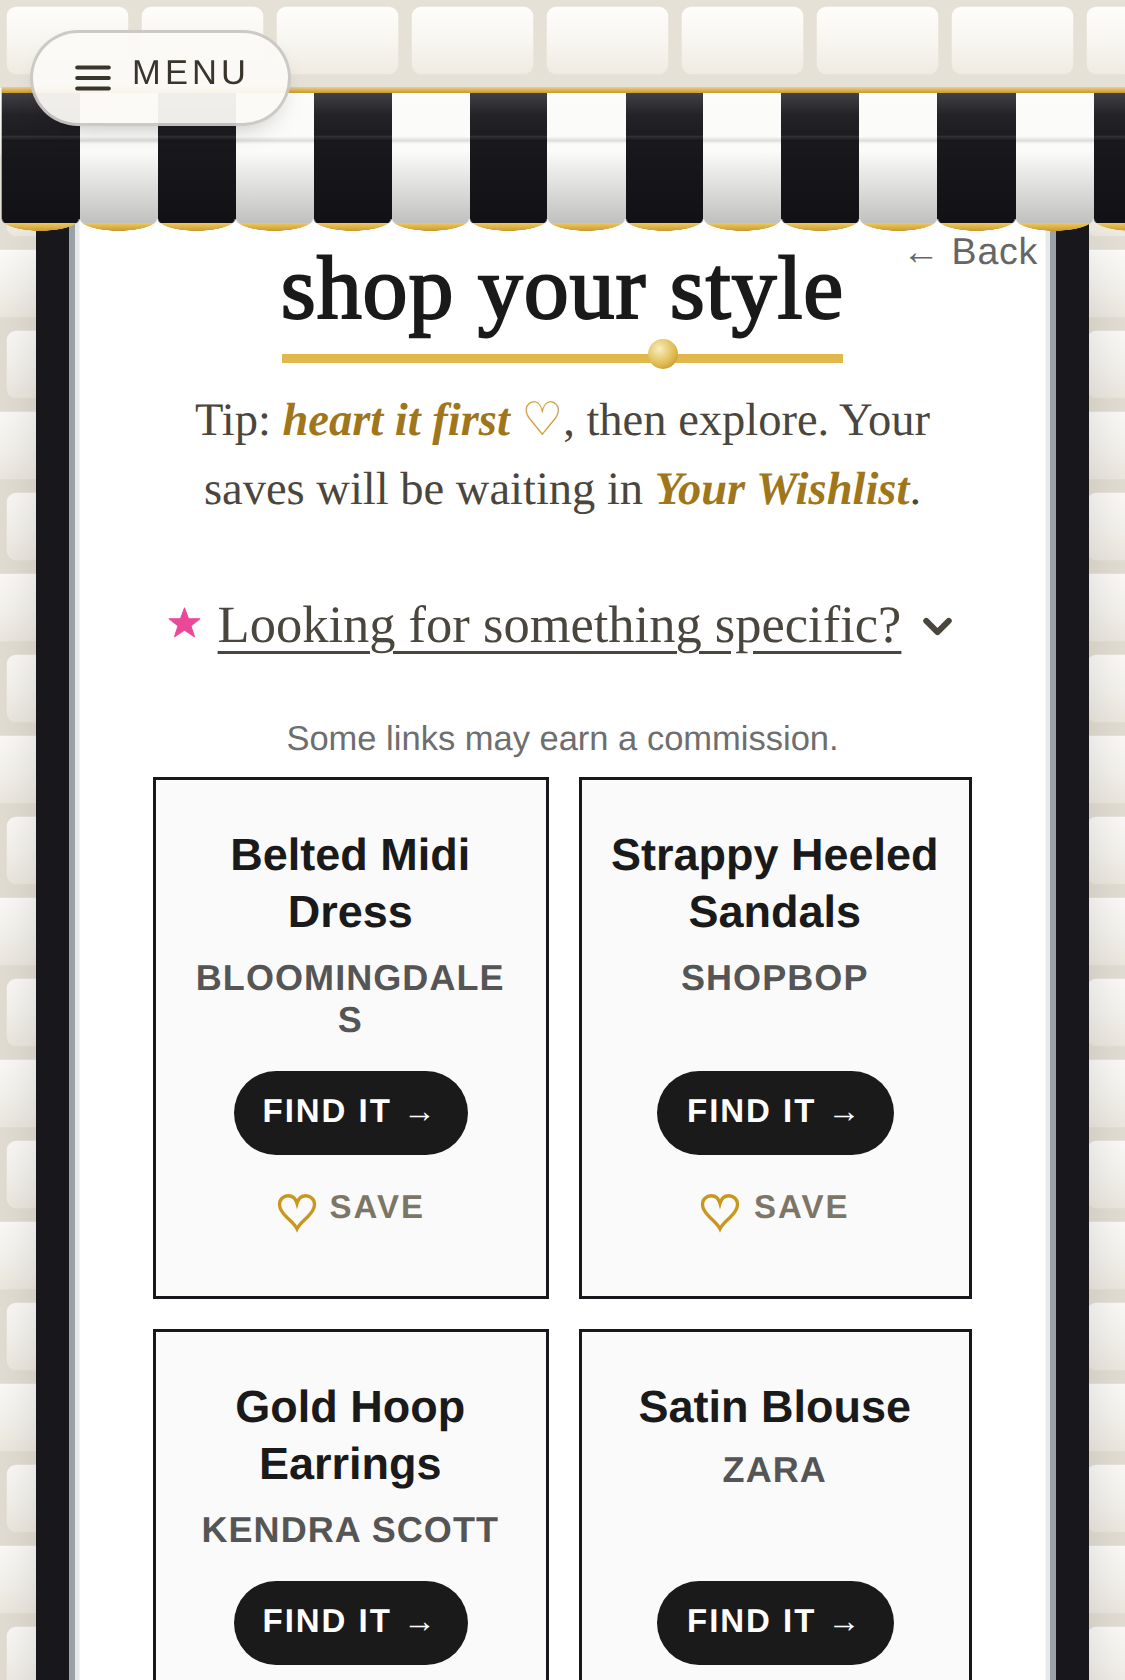
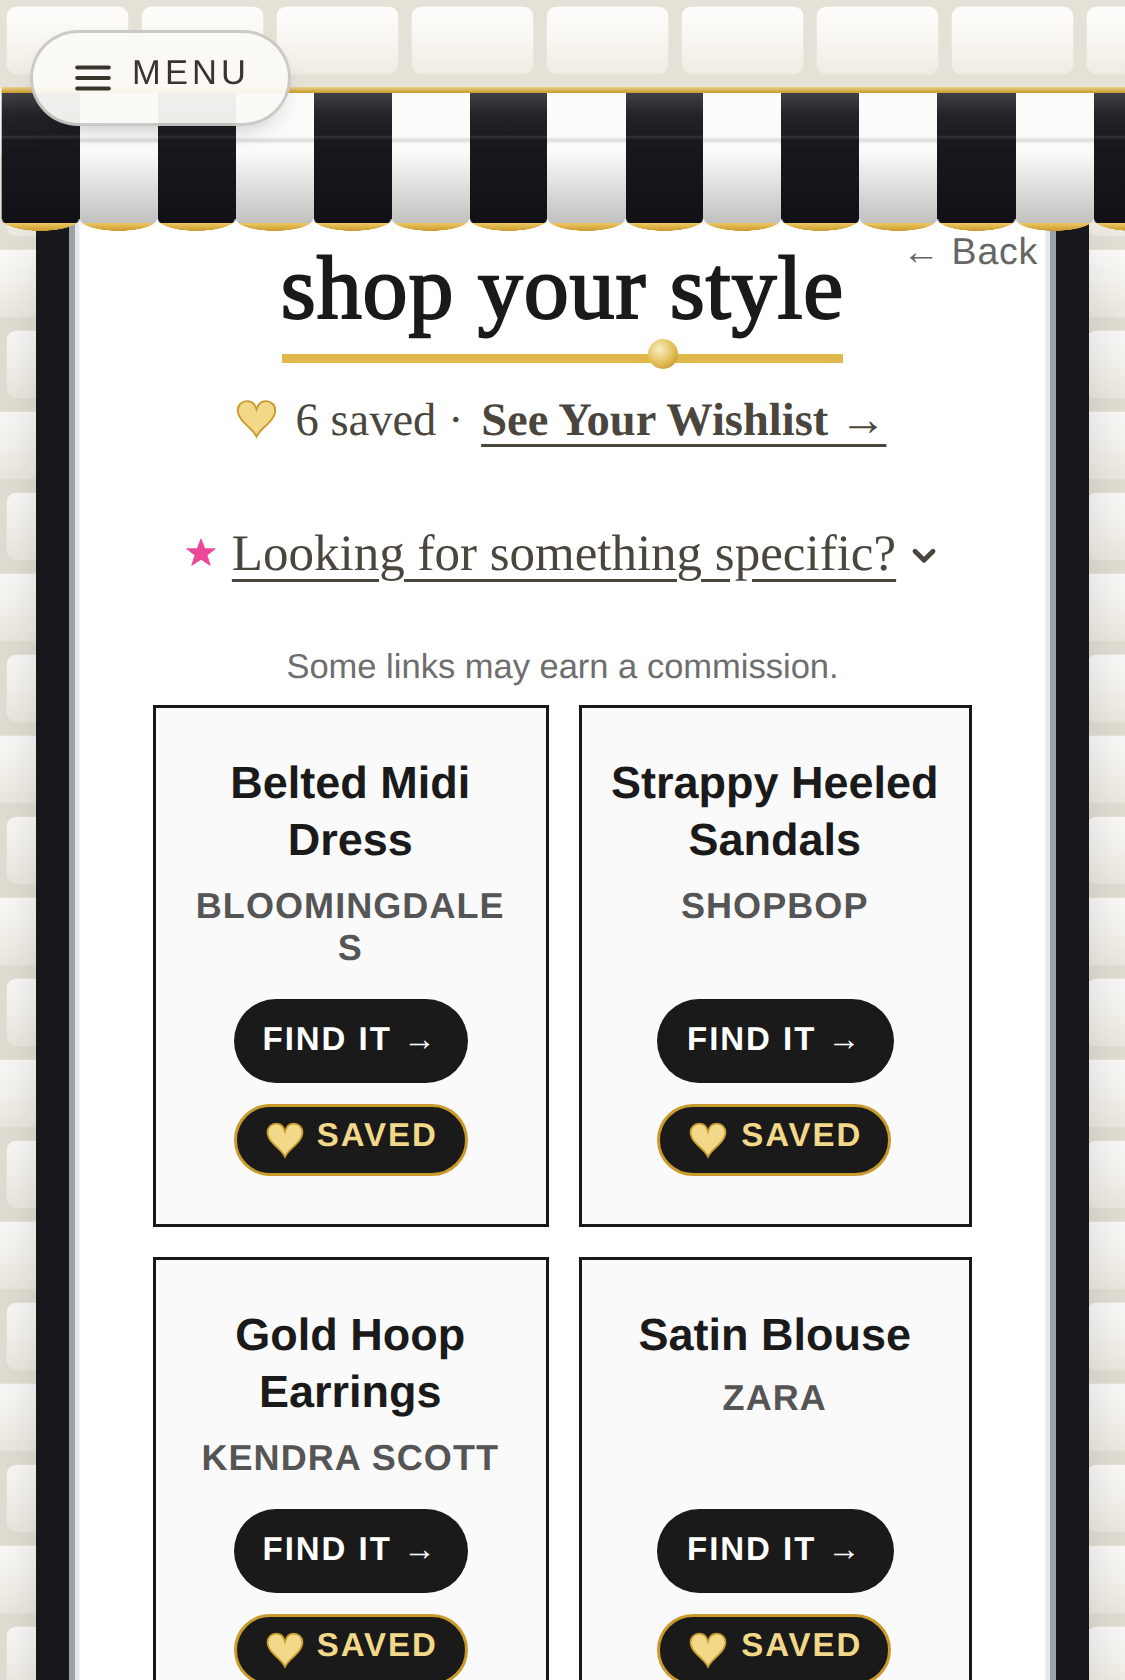
Shop your style: nothing asks her to act while the star is spinning (#906)
HER CALL off her own live test, and it is the same reasoning one step further
than this morning's disclosure fix. Her words: "she should just wait to see her
options during spinning star and not be tempted to click out of it at this
moment."

▶ THE WISHLIST DOOR WAS THE WORST OF THE THREE TO LEAVE STANDING, and that is
  the product point rather than a tidiness one: a notice and a tip are inert,
  but a DOOR is a way OUT, offered at the one moment she is waiting for the
  payoff. A tip is also simply wrong there -- "save it first, then explore" is
  advice about cards that are not on the screen yet.

⚠ THE CODE ALREADY AGREED AND THE MISS WAS MINE: _shopStyleGen has always
   hidden #ssAsk while thinking, for exactly this reason. The disclosure was
   brought into line this morning and its two neighbours were left behind. All
   four now stand down together and all four return the moment the pieces land.

Scoped #s-shopstyle, so Complete the Look's own copy of the tip is untouched.

wldoortest 45 -> 55. The new section asserts the spinner REALLY IS on screen
before measuring, or "nothing is showing" passes for the wrong reason, and then
asserts each of the four comes back once the six have landed.

ALSO: suite run logs are untracked now (scratchpad/out-*.txt). They are
regenerated on every run and a half-written one is worse than none -- it shows
zero failure marks while proving nothing, the false green this project already
[…]

Changed region(s): [[0.1556, 0.2167, 0.8711, 1.0], [0.1244, 0.4333, 0.1556, 0.4643]]

diff --git a/scratchpad/wldoortest.js b/scratchpad/wldoortest.js
@@ -147,5 +147,49 @@ for(const w of [430,393,375,360,320]){
   ok('no JS errors',errs.length===0,errs.join('|'));
   await ctx.close();
 }
+console.log('\n5. Nothing asks her to act while the star is spinning');
+{
+  const ctx=await b.newContext({viewport:{width:375,height:1000},deviceScaleFactor:3});
+  const pg=await ctx.newPage();
+  await pg.route('**/fonts.googleapis.com/**',r=>r.fulfill({status:200,contentType:'text/css',body:GF}));
+  const errs=[];pg.on('pageerror',e=>errs.push(e.message));
+  // a SLOW reply, so the spinner is genuinely on screen to be measured
+  await pg.addInitScript(picks=>{
+    localStorage.setItem('ss_data',JSON.stringify({userName:'Catherine',answers:[8,7,6,5,9,4,7,6,8,5,7,6],
+      topArchNames:['Modern Glam'],portrait:'P.',motto:'P.'}));
+    localStorage.setItem('ss_prefs',JSON.stringify({sizes:{},colorsLove:[],neverWear:[],neverPatterns:[],neverOther:''}));
+    const of=window.fetch;window.fetch=function(u){if(String(u).indexOf('style-ai')>=0){
+      return new Promise(r=>setTimeout(()=>r(new Response(JSON.stringify({content:[{type:'text',text:JSON.stringify({items:picks})}]}),{status:200,headers:{'Content-Type':'application/json'}})),4000));}
+      if(String(u).indexOf('user-data')>=0)return Promise.resolve(new Response('{}',{status:200}));
+      return of.apply(this,arguments);};},PICKS);
+  await pg.goto('http://localhost:8951/',{waitUntil:'domcontentloaded'});
+  await pg.waitForTimeout(2300);
+  await pg.evaluate(()=>{_shopStyleMode='quiz';_openShopStyleNow('quiz');});
+  await pg.waitForTimeout(1200);
+  const s1=await pg.evaluate(()=>{
+    const q=s=>document.querySelector('#s-shopstyle '+s);
+    const v=e=>!!(e&&e.offsetHeight>0);
+    return {thinking:document.getElementById('s-shopstyle').classList.contains('thinking'),
+      tip:v(q('[data-hearttip]')),door:v(q('[data-wldoor]')),
+      disc:v(q('.ss-disc-top')),ask:v(q('#ssAsk'))};});
+  ok('the spinner really is on screen',s1.thinking);
+  ok('the TIP stands down',!s1.tip);
+  ok('the WISHLIST DOOR stands down -- no way OUT while she waits',!s1.door);
+  ok('the commission notice stands down',!s1.disc);
+  ok('the ask box stands down (as it always has)',!s1.ask);
+  await pg.waitForTimeout(4200);
+  const s2=await pg.evaluate(()=>{
+    const q=s=>document.querySelector('#s-shopstyle '+s);
+    const v=e=>!!(e&&e.offsetHeight>0);
+    return {thinking:document.getElementById('s-shopstyle').classList.contains('thinking'),
+      tip:v(q('[data-hearttip]')),disc:v(q('.ss-disc-top')),ask:v(q('#ssAsk')),
+      cards:document.querySelectorAll('#shopStyleContent .wl-save').length};});
+  ok('once the pieces land the screen comes back',!s2.thinking&&s2.cards>0,'cards '+s2.cards);
+  ok('...the tip is there again',s2.tip);
+  ok('...the notice is there again',s2.disc);
+  ok('...and so is the ask',s2.ask);
+  ok('no JS errors',errs.length===0,errs.join('|'));
+  await ctx.close();
+}
 console.log(`\nall ${checks} checks run, ${fails} failures`);
 await b.close();srv.close();process.exit(fails?1:0);

diff --git a/index.html b/index.html
@@ -1587,6 +1587,24 @@ html.edit-velvet,html.edit-velvet body{background:#0E7F8C}
    and it must stay display:none rather than visibility/opacity, or it would
    still hold its space and leave a gap where the notice used to be. */
 #s-shopstyle.thinking .ss-disc-top{display:none}
+/* HER CALL 2026-08-22, off her own live test, and it is the SAME REASONING one
+   step further: while the star is spinning there is nothing on the screen to
+   act on, so nothing should be asking her to act.
+   ▶ THE WISHLIST DOOR IS THE WORST OF THE THREE TO LEAVE STANDING, and that is
+   her point, not a tidiness one: a notice and a tip are inert, but a door is a
+   way OUT, offered at the one moment she is waiting for the payoff. Her words:
+   "she should just wait to see her options during spinning star and not be
+   tempted to click out of it at this moment."
+   ⚠ THE CODE ALREADY AGREED -- _shopStyleGen has always hidden #ssAsk while
+   thinking, for exactly this reason. This is that rule finally reaching its
+   neighbours; the disclosure and these two were simply left behind.
+   ⚠ Scoped #s-shopstyle so Complete the Look's own copy of the tip is
+   untouched -- that screen has no spinner state of this kind.
+   ⚠ CSS rather than more inline style in _syncHeartTip on purpose: that
+   function sets display to '' (removing the inline value) when it wants a line
+   shown, so this rule wins during .thinking and gets out of the way after. */
+#s-shopstyle.thinking [data-hearttip],
+#s-shopstyle.thinking [data-wldoor]{display:none}
 .shop-disclosure{font-size:12.5px;color:#6e6e6e;line-height:1.5;margin-top:12px;max-width:320px;margin-left:auto;margin-right:auto;text-align:center}
 .email-divider{height:1px;background:#ebebeb;margin:1.5rem 0}
 .share-section{margin:1.5rem 0;text-align:center}
